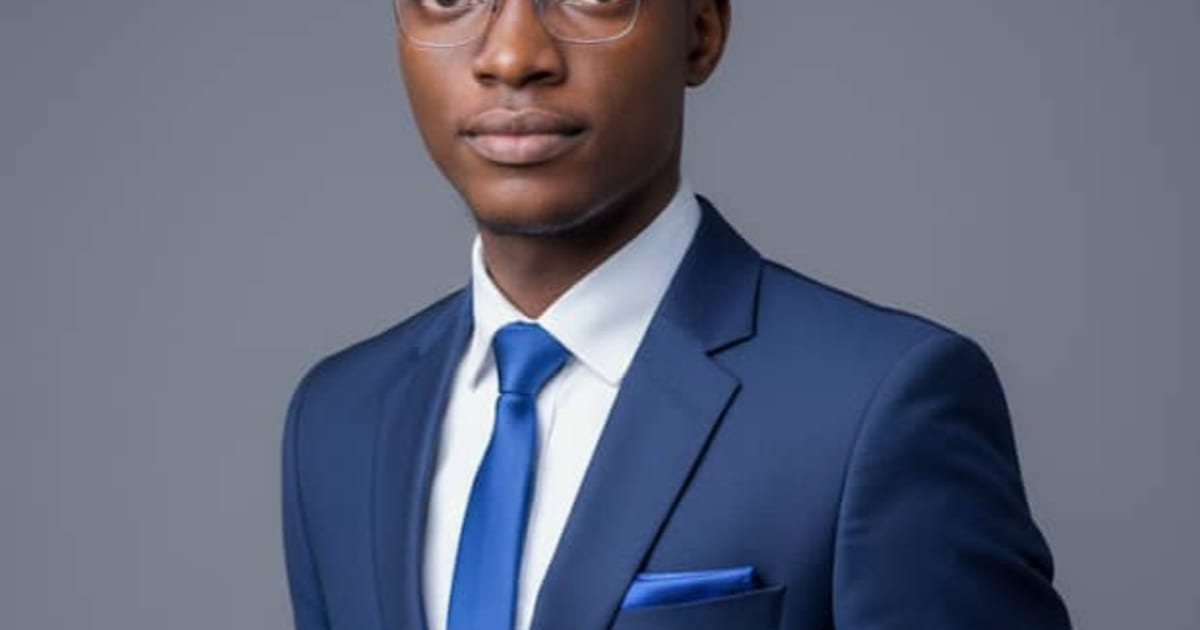
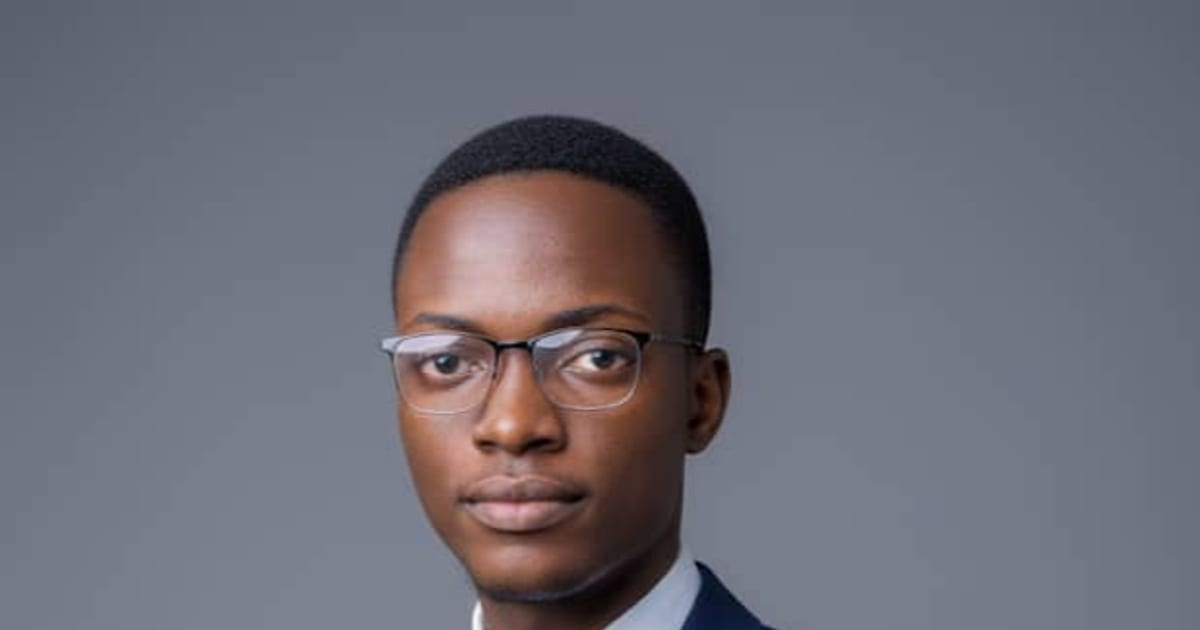
Last update

diff --git a/scripts/generate-og.js b/scripts/generate-og.js
@@ -1,0 +1,44 @@
+// Generates a 1200x630 Open Graph image prioritizing top content (keeps head visible)
+// Usage: node scripts/generate-og.js
+
+import fs from "node:fs/promises";
+import path from "node:path";
+import url from "node:url";
+import sharp from "sharp";
+
+const __filename = url.fileURLToPath(import.meta.url);
+const __dirname = path.dirname(__filename);
+
+async function ensureDir(dir) {
+  await fs.mkdir(dir, { recursive: true });
+}
+
+async function generate({ sourcePath, outputPath }) {
+  // Use cover with position 'north' so the top of the portrait is preserved
+  const pipeline = sharp(sourcePath)
+    .resize(1200, 630, {
+      fit: "cover",
+      position: "north",
+      withoutEnlargement: false,
+    })
+    .jpeg({ quality: 82, mozjpeg: true, progressive: true });
+
+  await ensureDir(path.dirname(outputPath));
+  await pipeline.toFile(outputPath);
+}
+
+async function main() {
+  const projectRoot = path.resolve(__dirname, "..");
+  const source = path.join(projectRoot, "public", "preview.jpg");
+  const output = path.join(projectRoot, "public", "og-image.jpg");
+
+  await generate({ sourcePath: source, outputPath: output });
+  // eslint-disable-next-line no-console
+  console.log(`Generated: ${output}`);
+}
+
+main().catch((err) => {
+  // eslint-disable-next-line no-console
+  console.error(err);
+  process.exit(1);
+});

diff --git a/index.html b/index.html
@@ -41,10 +41,10 @@
     />
     <meta
       property="og:image"
-      content="https://rachade-orekan-portfolio.vercel.app/preview.jpg"
+      content="https://rachade-orekan-portfolio.vercel.app/og-image.jpg"
     />
-    <meta property="og:image:width" content="619" />
-    <meta property="og:image:height" content="826" />
+    <meta property="og:image:width" content="1200" />
+    <meta property="og:image:height" content="630" />
     <meta
       property="og:image:alt"
       content="Portfolio de Rachade Chedrac Orekan - Développeur Web Fullstack"
@@ -67,7 +67,7 @@
     />
     <meta
       name="twitter:image"
-      content="https://rachade-orekan-portfolio.vercel.app/preview.jpg"
+      content="https://rachade-orekan-portfolio.vercel.app/og-image.jpg"
     />
 
     <link rel="icon" href="/favicon.ico" type="image/x-icon" />
